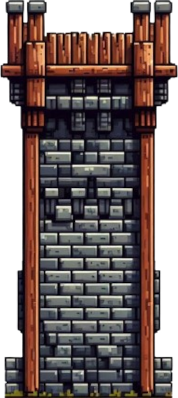
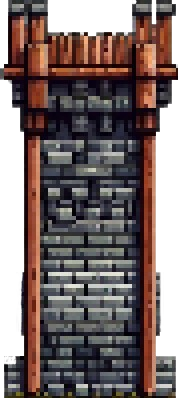
Visual overhauls

diff --git a/lib/core/flame/components/masonry/walls/wall.dart b/lib/core/flame/components/masonry/walls/wall.dart
@@ -1,3 +1,5 @@
+import 'package:defend_your_flame/core/flame/components/masonry/walls/wall_helper.dart';
+import 'package:defend_your_flame/core/flame/components/masonry/walls/wall_type.dart';
 import 'package:defend_your_flame/core/flame/managers/sprite_manager.dart';
 import 'package:flame/components.dart';
 import 'package:flame/image_composition.dart';
@@ -7,8 +9,10 @@ class Wall extends PositionComponent with HasVisibility, Snapshot {
   late final double verticalRange;
   late Sprite _wallSprite;
 
+  WallType _wallType = WallType.wood;
+
   Wall({required double verticalRange}) : super(size: Vector2(156, 398)) {
-    scale = Vector2.all(0.4);
+    scale = WallHelper.getScale(_wallType);
     renderSnapshot = true;
     this.verticalRange = verticalRange / scale.y;
   }
@@ -16,30 +20,46 @@ class Wall extends PositionComponent with HasVisibility, Snapshot {
   @override
   void onLoad() {
     super.onLoad();
-    _wallSprite = SpriteManager.getSprite('masonry/wood-wall');
+
+    updateWallType(_wallType, firstLoad: true);
   }
 
   @override
   void render(Canvas canvas) {
     super.render(canvas);
-    const double verticalDiffPerRender = 18;
+    const double verticalDiffPerRender = 30;
     final double iterations = (verticalRange / verticalDiffPerRender).ceilToDouble();
     final double horizontalRange = verticalRange / 6;
     final double horitontalDiffPerRender = horizontalRange / iterations;
 
     // Inverted because the anchor is bottom left.
-    double runningX = -horizontalRange;
-    double runninyY = -verticalRange;
+    double runningX = 0;
+    double runninyY = 0;
     for (int i = 0; i < iterations; i++) {
       _wallSprite.render(
         canvas,
-        position: Vector2(runningX, runninyY),
+        position: Vector2(runningX, runninyY) - size,
         size: size,
-        overridePaint: Paint()..color = Colors.white.withOpacity(0.95 - ((iterations - i) / 90.0)),
+        overridePaint: Paint()..color = Colors.white.withOpacity(1 - ((iterations - i) / 90.0)),
       );
 
       runningX += horitontalDiffPerRender;
       runninyY += verticalDiffPerRender;
+    }
+  }
+
+  void updateWallType(WallType wallType, {bool firstLoad = false}) {
+    if (!firstLoad && _wallType == wallType) {
+      return;
+    }
+
+    _wallType = wallType;
+    _wallSprite = SpriteManager.getSprite('masonry/${wallType.name}-wall');
+    scale = WallHelper.getScale(_wallType);
+
+    if (!firstLoad) {
+      // We need to re-render the snapshot, we ignore first load as we're not in the render loop yet.
+      takeSnapshot();
     }
   }
 }

diff --git a/lib/core/flame/components/masonry/player_base.dart b/lib/core/flame/components/masonry/player_base.dart
@@ -2,25 +2,26 @@ import 'dart:async';
 
 import 'package:defend_your_flame/core/flame/components/effects/purple_flame.dart';
 import 'package:defend_your_flame/core/flame/components/masonry/rock_fire_pit.dart';
-import 'package:defend_your_flame/core/flame/components/masonry/wall.dart';
+import 'package:defend_your_flame/core/flame/components/masonry/walls/wall.dart';
 import 'package:defend_your_flame/core/flame/worlds/main_world.dart';
 import 'package:defend_your_flame/core/flame/worlds/main_world_state.dart';
 import 'package:flame/components.dart';
 
-class Castle extends PositionComponent with HasAncestor<MainWorld>, HasVisibility {
+class PlayerBase extends PositionComponent with HasAncestor<MainWorld>, HasVisibility {
+  static const double baseWidth = 240;
+  static const double baseHeight = 180;
+  static const double wallOffset = 10;
+
   int _health = 100;
   int _totalHealth = 100;
 
   int get currentHealth => _health < 0 ? 0 : _health;
   int get totalHealth => _totalHealth;
 
-  late final Wall _wall = Wall(verticalRange: 140)
-    ..position = Vector2(0, 0)
-    ..anchor = Anchor.bottomLeft;
+  late final Wall _wall = Wall(verticalRange: baseHeight - wallOffset * 2)..position = Vector2(0, wallOffset);
 
   late final RockFirePit _rockFirePit = RockFirePit()
-    ..position = Vector2(wallWidth + ((width - wallWidth) / 2) - 40, -60)
-    ..anchor = Anchor.bottomLeft;
+    ..position = Vector2(wallWidth + ((width - wallWidth) / 2) - 25, baseHeight / 2 - 20);
 
   late final PurpleFlame _firePitFlame = PurpleFlame()
     ..position = _rockFirePit.center - Vector2(15, -5)
@@ -29,6 +30,8 @@ class Castle extends PositionComponent with HasAncestor<MainWorld>, HasVisibilit
 
   bool get destroyed => _health <= 0;
   double get wallWidth => _wall.scaledSize.x;
+
+  PlayerBase() : super(size: Vector2(baseWidth, baseHeight));
 
   @override
   FutureOr<void> onLoad() {

diff --git a/lib/core/flame/managers/player_manager.dart b/lib/core/flame/managers/player_manager.dart
@@ -1,17 +1,15 @@
-import 'package:defend_your_flame/core/flame/components/masonry/castle.dart';
+import 'package:defend_your_flame/core/flame/components/masonry/player_base.dart';
 import 'package:defend_your_flame/core/flame/worlds/main_world.dart';
 import 'package:flame/components.dart';
 
 class PlayerManager extends PositionComponent with ParentIsA<MainWorld> {
-  late final Castle _castle = Castle()
-    ..size = Vector2(350, 20)
-    ..position = Vector2(parent.worldWidth - 280, parent.worldHeight)
-    ..anchor = Anchor.bottomLeft;
+  late final PlayerBase _castle = PlayerBase()
+    ..position = Vector2(parent.worldWidth - PlayerBase.baseWidth, parent.worldHeight - PlayerBase.baseHeight);
 
   int _gold = 0;
 
   int get totalGold => _gold;
-  Castle get castle => _castle;
+  PlayerBase get castle => _castle;
 
   @override
   Future<void> onLoad() async {

diff --git a/lib/core/flame/components/hud/next_round_internal/next_round_shop_hud.dart b/lib/core/flame/components/hud/next_round_internal/next_round_shop_hud.dart
@@ -1,3 +1,4 @@
+import 'package:defend_your_flame/constants/theming_constants.dart';
 import 'package:defend_your_flame/core/flame/components/hud/abstract_components/basic_hud.dart';
 import 'package:defend_your_flame/core/flame/components/hud/buttons/go_back_button.dart';
 import 'package:defend_your_flame/core/flame/components/hud/next_round_hud.dart';
@@ -12,7 +13,7 @@ class NextRoundShopHud extends BasicHud with ParentIsA<NextRoundHud> {
     ..anchor = Anchor.topCenter;
 
   late final GoldIndicator _goldIndicator = GoldIndicator()
-    ..position = Vector2(world.worldWidth / 2, world.worldHeight / 3) - Vector2(20, 0)
+    ..position = _shopTitleText.position + ThemingConstants.menuButtonGap - Vector2(55, 0)
     ..scale = Vector2.all(2);
 
   late final GoBackButton _backButton = GoBackButton(backFunction: onBackButtonPressed)

diff --git a/lib/core/flame/components/masonry/walls/wall_helper.dart b/lib/core/flame/components/masonry/walls/wall_helper.dart
@@ -1,0 +1,13 @@
+import 'package:defend_your_flame/core/flame/components/masonry/walls/wall_type.dart';
+import 'package:flame/components.dart';
+
+class WallHelper {
+  static Vector2 getScale(WallType type) {
+    switch (type) {
+      case WallType.wood:
+        return Vector2(0.35, 0.26);
+      case WallType.stone:
+        return Vector2(0.4, 0.26);
+    }
+  }
+}

diff --git a/lib/core/flame/managers/entity_manager.dart b/lib/core/flame/managers/entity_manager.dart
@@ -101,6 +101,7 @@ class EntityManager extends Component with ParentIsA<MainWorld> {
   }
 
   void spawnEntity() {
+    return;
     var randomNumber = GlobalVars.rand.nextInt(100);
 
     // TODO add back in mages when you enable a way to kill them.

diff --git a/lib/core/flame/components/masonry/walls/wall_type.dart b/lib/core/flame/components/masonry/walls/wall_type.dart
@@ -1,0 +1,1 @@
+enum WallType { wood, stone }

diff --git a/README.md b/README.md
@@ -25,3 +25,4 @@ Delete all merged branches:
 - Removing backgrounds: https://www.remove.bg/upload
 - Edit manipulation/extension: https://app.runwayml.com/
 - Removing objects: https://snapedit.app/
+- Pixelifying objects: https://pixelartify.com
